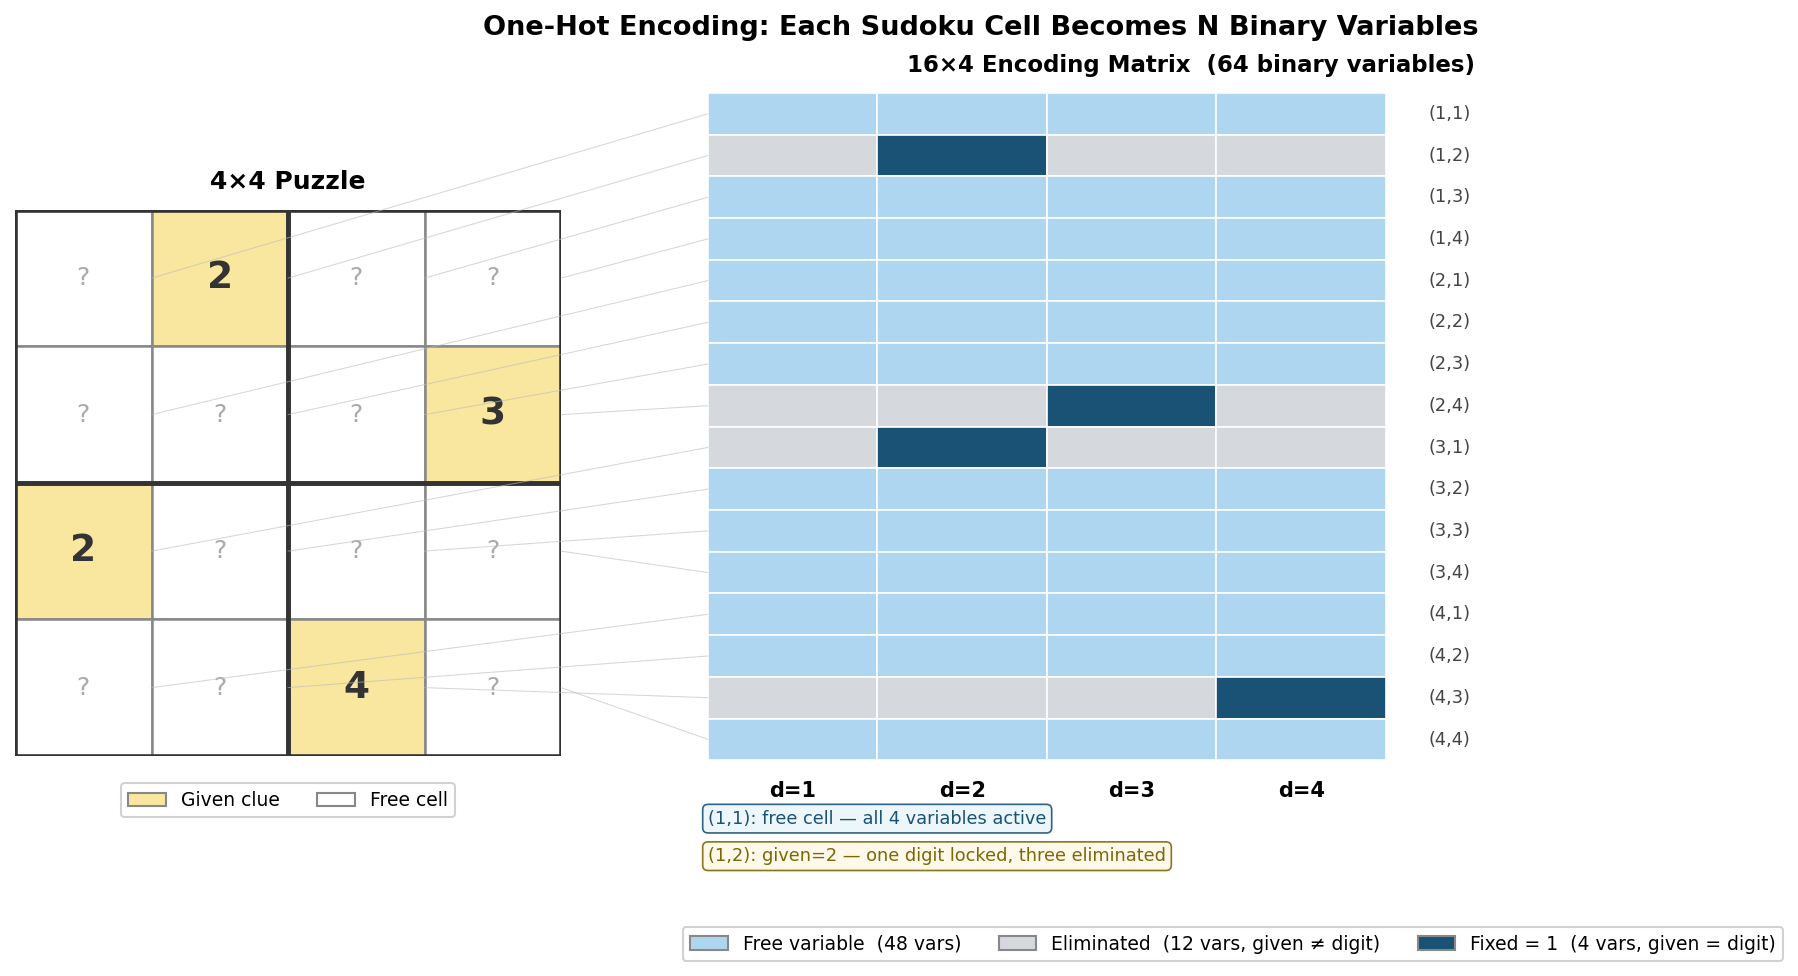
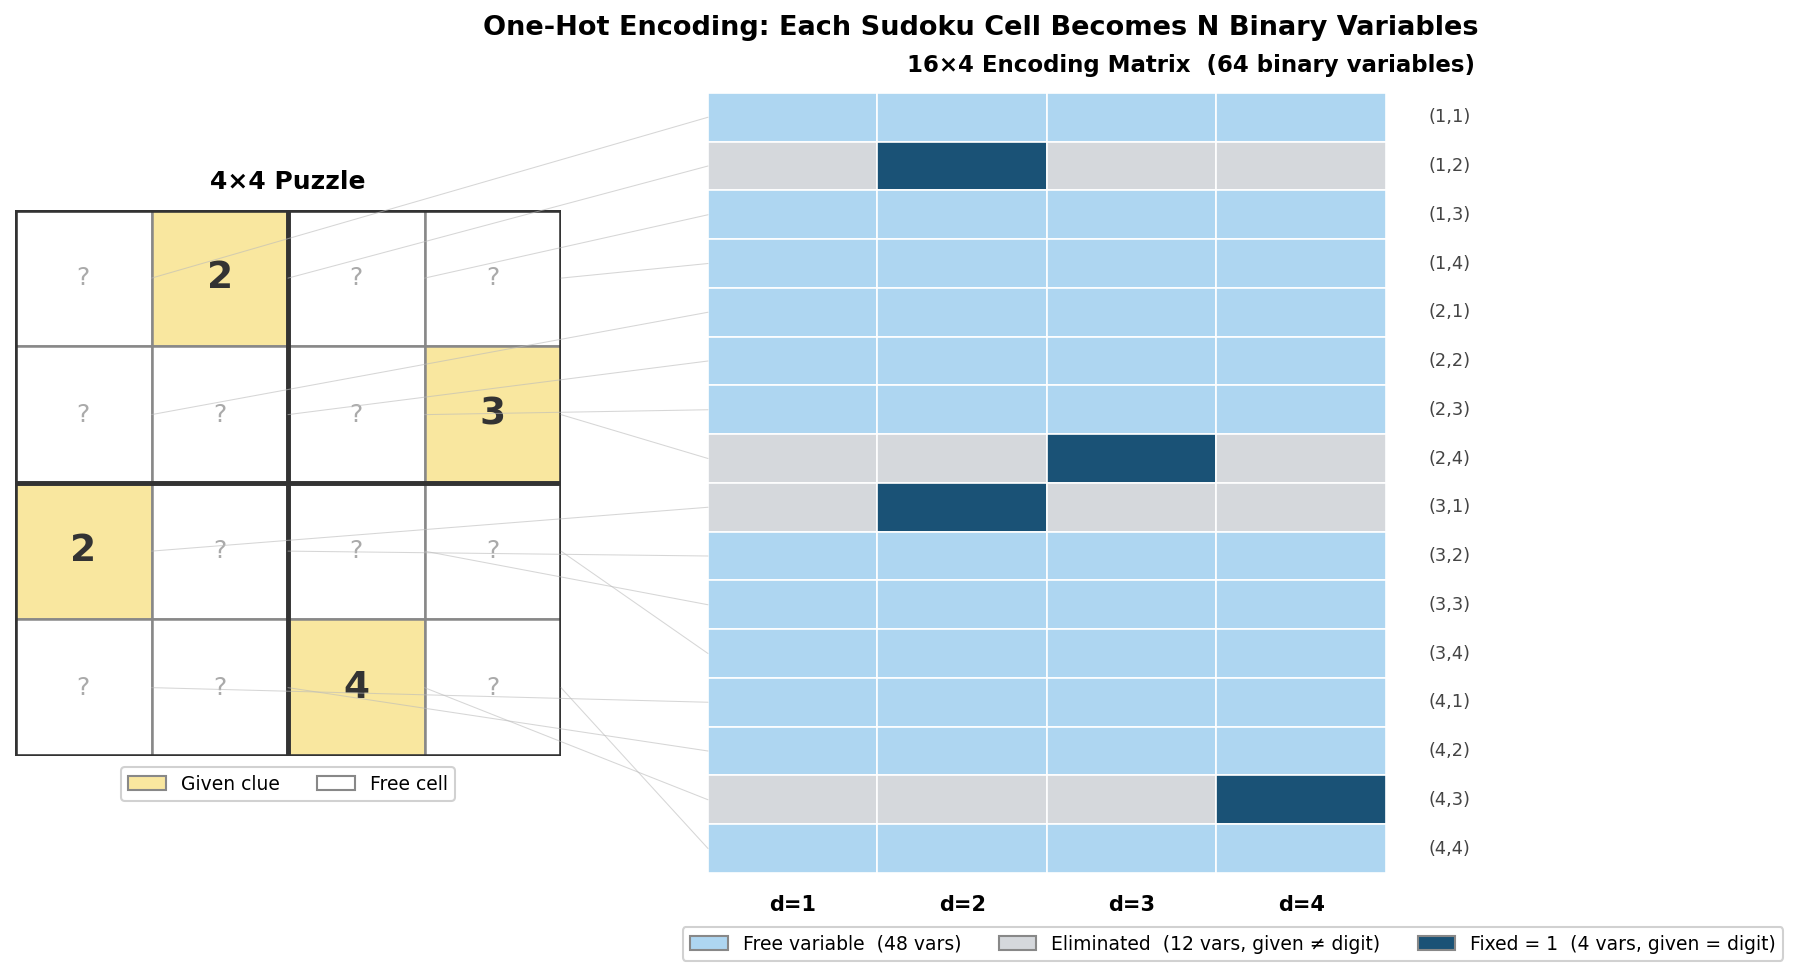
fig2: remove callout labels, fix vertical alignment

diff --git a/figures/plot_fig2_onehot.py b/figures/plot_fig2_onehot.py
@@ -35,36 +35,30 @@ for i in range(N):
 FREE_C  = "#AED6F1"
 ELIM_C  = "#D5D8DC"
 FIXED_C = "#1A5276"
-GOLD_C  = "#F0B429"   # annotation highlight
 
 n_free  = int(np.sum(enc == 0))
 n_elim  = int(np.sum(enc == -1))
 n_fixed = int(np.sum(enc == 1))
 
 # ---------------------------------------------------------------------------
-# Figure layout
+# Figure layout — both axes share the same vertical span
 # ---------------------------------------------------------------------------
 fig = plt.figure(figsize=(14, 6.5))
 fig.patch.set_facecolor("white")
 
-# Puzzle axes (left) — square cells
-ax_p = fig.add_axes([0.04, 0.12, 0.26, 0.76])
+ax_p = fig.add_axes([0.04, 0.10, 0.26, 0.80])
 ax_p.set_xlim(0, N)
 ax_p.set_ylim(0, N)
 ax_p.set_aspect("equal")
 ax_p.axis("off")
 ax_p.set_title("4×4 Puzzle", fontsize=12, fontweight="bold", pad=10)
 
-# Matrix axes (right)
 ax_m = fig.add_axes([0.37, 0.10, 0.46, 0.80])
-# xlim: cols 0-3 plus just enough for row labels
 ax_m.set_xlim(-0.5, N + 1.2)
 ax_m.set_ylim(-0.5, N * N - 0.5)
 ax_m.axis("off")
-ax_m.set_title(
-    f"16×4 Encoding Matrix  (64 binary variables)",
-    fontsize=11, fontweight="bold", pad=10,
-)
+ax_m.set_title("16×4 Encoding Matrix  (64 binary variables)",
+               fontsize=11, fontweight="bold", pad=10)
 
 # ---------------------------------------------------------------------------
 # Draw puzzle grid
@@ -84,97 +78,62 @@ for i in range(N):
             ax_p.text(j + 0.5, ry + 0.5, "?",
                       ha="center", va="center", fontsize=12, color="#aaaaaa")
 
-# 2×2 box borders
 for br in range(2):
     for bc in range(2):
         ax_p.add_patch(plt.Rectangle([bc * 2, br * 2], 2, 2,
                        fill=False, edgecolor="#333333", linewidth=2.2))
 
-# Puzzle legend
 ax_p.legend(
     handles=[
         mpatches.Patch(facecolor="#F9E79F", edgecolor="#888888", label="Given clue"),
         mpatches.Patch(facecolor="white",   edgecolor="#888888", label="Free cell"),
     ],
-    loc="lower center", bbox_to_anchor=(0.5, -0.13),
+    loc="lower center", bbox_to_anchor=(0.5, -0.10),
     fontsize=9, ncol=2, framealpha=0.9,
 )
 
 # ---------------------------------------------------------------------------
 # Draw encoding matrix
 # ---------------------------------------------------------------------------
-ANNOTATE_ROWS = {
-    0: ("free: all 4 vars active",      FREE_C,  "#1A5276"),   # (1,1) — top
-    1: ("given=2: one locked, 3 killed", GOLD_C,  "#7D6608"),   # (1,2)
-}
-
 for row_idx in range(N * N):
     mat_y = N * N - 1 - row_idx
 
-    # Annotation row: highlight full row behind the cells
-    if row_idx in ANNOTATE_ROWS:
-        _, hi_col, _ = ANNOTATE_ROWS[row_idx]
-        ax_m.add_patch(plt.Rectangle(
-            [-0.5, mat_y - 0.5], N, 1,
-            facecolor=hi_col, alpha=0.35, zorder=0,
-        ))
-
-    # Draw each cell
     for k in range(N):
         v  = enc[row_idx, k]
         fc = FREE_C if v == 0 else (FIXED_C if v == 1 else ELIM_C)
         ax_m.add_patch(plt.Rectangle(
             [k - 0.5, mat_y - 0.5], 1, 1,
-            facecolor=fc, edgecolor="white", linewidth=0.8, zorder=1,
+            facecolor=fc, edgecolor="white", linewidth=0.8,
         ))
 
-    # Row label — (row+1, col+1) in 1-indexed
     cell_r = row_idx // N
     cell_c = row_idx % N
     ax_m.text(N - 0.5 + 0.25, mat_y,
               f"({cell_r+1},{cell_c+1})",
               ha="left", va="center", fontsize=8.5, color="#444444")
 
-
-# Column labels (bottom)
 for k in range(N):
-    ax_m.text(k, -0.5 - 0.5, f"d={k+1}",
+    ax_m.text(k, -0.5 - 0.45, f"d={k+1}",
               ha="center", va="top", fontsize=10, fontweight="bold")
 
-ax_m.set_ylim(-3.2, N * N - 0.5)   # room below for callouts
-
-# Annotation notes — bottom left, below column labels
-ax_m.text(-0.5, -1.9,
-          "(1,1): free cell — all 4 variables active",
-          fontsize=8.5, color="#1A5276", va="center",
-          bbox=dict(boxstyle="round,pad=0.3", facecolor="#EBF5FB",
-                    edgecolor="#1A5276", alpha=0.9, linewidth=0.8))
-ax_m.text(-0.5, -2.8,
-          "(1,2): given=2 — one digit locked, three eliminated",
-          fontsize=8.5, color="#7D6608", va="center",
-          bbox=dict(boxstyle="round,pad=0.3", facecolor="#FEF9E7",
-                    edgecolor="#7D6608", alpha=0.9, linewidth=0.8))
-
 # ---------------------------------------------------------------------------
-# Connecting lines (puzzle cell → matrix row)
+# Connecting lines
 # ---------------------------------------------------------------------------
 for i in range(N):
     for j in range(N):
         row_idx = i * N + j
         mat_y   = N * N - 1 - row_idx
-        puz_y   = N - 1 - i + 0.5   # cell center in puzzle axes
+        puz_y   = N - 1 - i + 0.5
 
-        cp = ConnectionPatch(
-            xyA=(j + 1.0, puz_y),          # right edge of puzzle cell
-            xyB=(-0.5,    mat_y),           # left edge of matrix row
+        fig.add_artist(ConnectionPatch(
+            xyA=(j + 1.0, puz_y), xyB=(-0.5, mat_y),
             coordsA="data", coordsB="data",
             axesA=ax_p, axesB=ax_m,
             color="#BBBBBB", linewidth=0.5, alpha=0.6,
-        )
-        fig.add_artist(cp)
+        ))
 
 # ---------------------------------------------------------------------------
-# Overall title + bottom legend
+# Title + bottom legend
 # ---------------------------------------------------------------------------
 fig.suptitle("One-Hot Encoding: Each Sudoku Cell Becomes N Binary Variables",
              fontsize=13, fontweight="bold", y=0.98)
